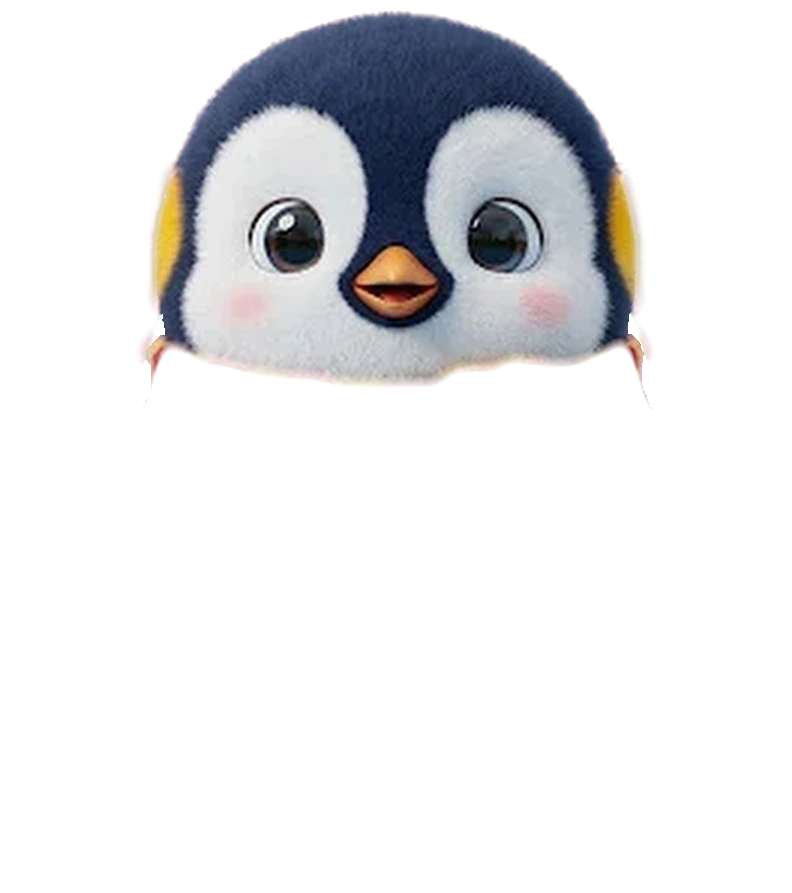
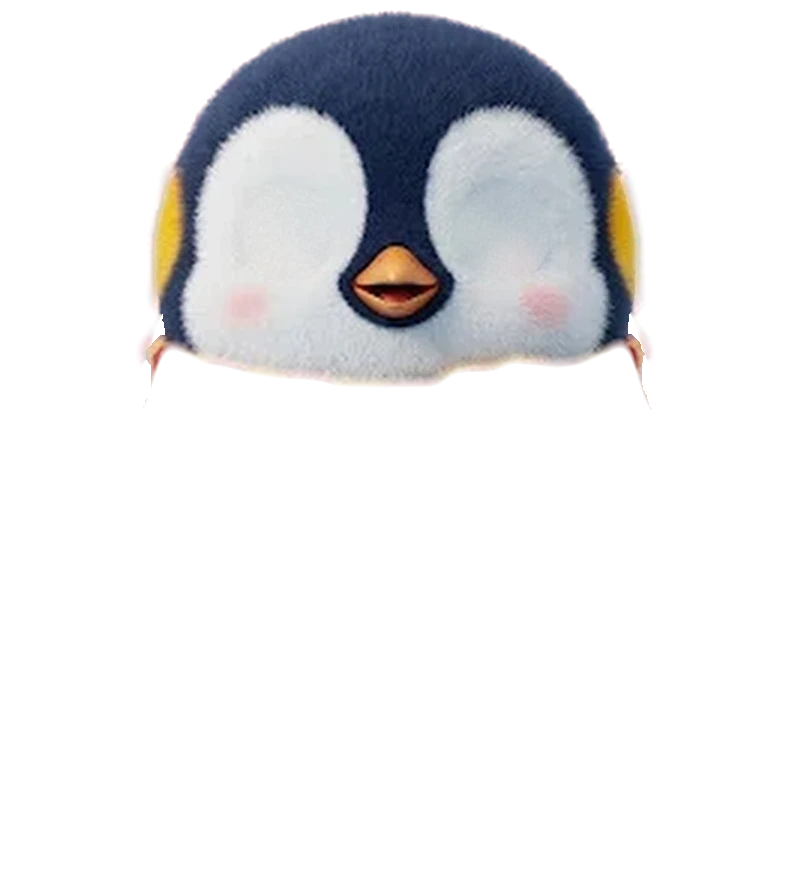
Glossy cartoon eyes
Big shiny dark eyes with sparkles (closest to the original picture):
the iris shifts a little to look at you while the sparkles stay fixed,
with a thin outline. Pip's original eyes are painted out of the head
image so blinks and sleep show clean fur; sleep is now just the closed
eye curves.

Claude-Session: https://claude.ai/code/session_01WgUrzfH79J5jjz53mtkSCE

Changed region(s): [[0.5758, 0.2116, 0.697, 0.3326], [0.303, 0.2116, 0.4242, 0.3326]]

diff --git a/index.html b/index.html
@@ -205,42 +205,40 @@
                   <radialGradient id="pupil" cx=".4" cy=".35" r=".75">
                     <stop offset="0" stop-color="#3d3760"/><stop offset=".55" stop-color="#1b1733"/><stop offset="1" stop-color="#0c0a1a"/>
                   </radialGradient>
-                  <clipPath id="whiteL"><ellipse cx="289" cy="234" rx="42" ry="46"/></clipPath>
-                  <clipPath id="whiteR"><ellipse cx="503" cy="234" rx="42" ry="46"/></clipPath>
+                  <radialGradient id="gIris" cx=".45" cy=".3" r=".8">
+                    <stop offset="0" stop-color="#4b4275"/><stop offset=".6" stop-color="#1e1838"/><stop offset="1" stop-color="#0d0a1c"/>
+                  </radialGradient>
+                  <clipPath id="whiteL"><ellipse cx="289" cy="234" rx="41" ry="46"/></clipPath>
+                  <clipPath id="whiteR"><ellipse cx="503" cy="234" rx="41" ry="46"/></clipPath>
                 </defs>
-                <!-- Pou-style cartoon eyes drawn over Pip's own eyes; each pupil follows you on its own -->
+                <!-- glossy cartoon eyes: the dark iris shifts to look at you, the sparkles stay put -->
                 <g id="ceyes">
-                  <!-- fur patches hiding Pip's own eyes underneath (shows during blinks) -->
-                  <g filter="url(#softEdgeH)">
-                    <circle cx="289" cy="234" r="45" fill="#dfe2e3"/>
-                    <circle cx="503" cy="234" r="45" fill="#dfe2e3"/>
-                  </g>
                   <g class="ceye">
-                    <ellipse cx="289" cy="234" rx="42" ry="46" fill="url(#eyeWhite)"/>
+                    <ellipse cx="289" cy="234" rx="41" ry="46" fill="#fff"/>
                     <g clip-path="url(#whiteL)"><g id="pupilL">
-                      <circle cx="289" cy="236" r="25" fill="url(#pupil)"/>
-                      <circle cx="280" cy="226" r="8.5" fill="#fff"/>
-                      <circle cx="298" cy="245" r="3.8" fill="#fff" opacity=".9"/>
+                      <ellipse cx="289" cy="237" rx="34" ry="39" fill="url(#gIris)"/>
+                      <ellipse cx="289" cy="258" rx="22" ry="11" fill="#8a7fd0" opacity=".45"/>
                     </g></g>
-                    <ellipse cx="289" cy="234" rx="42" ry="46" fill="none" stroke="#1d1a33" stroke-width="5.5"/>
+                    <ellipse cx="289" cy="234" rx="41" ry="46" fill="none" stroke="#1d1a33" stroke-width="3.5"/>
+                    <circle cx="276" cy="219" r="11.5" fill="#fff"/>
+                    <circle cx="302" cy="249" r="5" fill="#fff"/>
+                    <circle cx="305" cy="216" r="3" fill="#fff" opacity=".9"/>
                   </g>
                   <g class="ceye">
-                    <ellipse cx="503" cy="234" rx="42" ry="46" fill="url(#eyeWhite)"/>
+                    <ellipse cx="503" cy="234" rx="41" ry="46" fill="#fff"/>
                     <g clip-path="url(#whiteR)"><g id="pupilR">
-                      <circle cx="503" cy="236" r="25" fill="url(#pupil)"/>
-                      <circle cx="494" cy="226" r="8.5" fill="#fff"/>
-                      <circle cx="512" cy="245" r="3.8" fill="#fff" opacity=".9"/>
+                      <ellipse cx="503" cy="237" rx="34" ry="39" fill="url(#gIris)"/>
+                      <ellipse cx="503" cy="258" rx="22" ry="11" fill="#8a7fd0" opacity=".45"/>
                     </g></g>
-                    <ellipse cx="503" cy="234" rx="42" ry="46" fill="none" stroke="#1d1a33" stroke-width="5.5"/>
+                    <ellipse cx="503" cy="234" rx="41" ry="46" fill="none" stroke="#1d1a33" stroke-width="3.5"/>
+                    <circle cx="490" cy="219" r="11.5" fill="#fff"/>
+                    <circle cx="516" cy="249" r="5" fill="#fff"/>
+                    <circle cx="519" cy="216" r="3" fill="#fff" opacity=".9"/>
                   </g>
                 </g>
                 <g id="lids">
-                  <g filter="url(#softEdgeH)">
-                    <circle cx="294" cy="237" r="47" fill="#dfe2e3"/>
-                    <circle cx="505" cy="236" r="48" fill="#dfe2e3"/>
-                  </g>
-                  <path d="M256 246 Q294 272 332 246" fill="none" stroke="#2b2836" stroke-width="8" stroke-linecap="round"/>
-                  <path d="M466 246 Q505 272 544 246" fill="none" stroke="#2b2836" stroke-width="8" stroke-linecap="round"/>
+                  <path d="M253 240 Q289 266 325 240" fill="none" stroke="#2b2836" stroke-width="7" stroke-linecap="round"/>
+                  <path d="M467 240 Q503 266 539 240" fill="none" stroke="#2b2836" stroke-width="7" stroke-linecap="round"/>
                 </g>
                 <circle id="beakPt" cx="394" cy="288" r="3" fill="none"/>
                 <g id="hat"></g>

diff --git a/game.js b/game.js
@@ -251,7 +251,7 @@
   // they feel alive without going cross-eyed. The head leans gently toward you. With a mouse they keep watching while it's in the
   // window; with touch they follow your finger, then relax back.
   // EYE_MAX = how far the pupils travel; HEAD_MAX = how far the head leans.
-  const EYE_MAX = { x: 11, y: 11 };
+  const EYE_MAX = { x: 8, y: 6 };
   const EYE_SOLO = 0.2; // 0 = eyes move as a pair, 1 = each aims fully on its own
   const HEAD_MAX = { rot: 3, x: 10, y: 6 };
   const EYES = [
